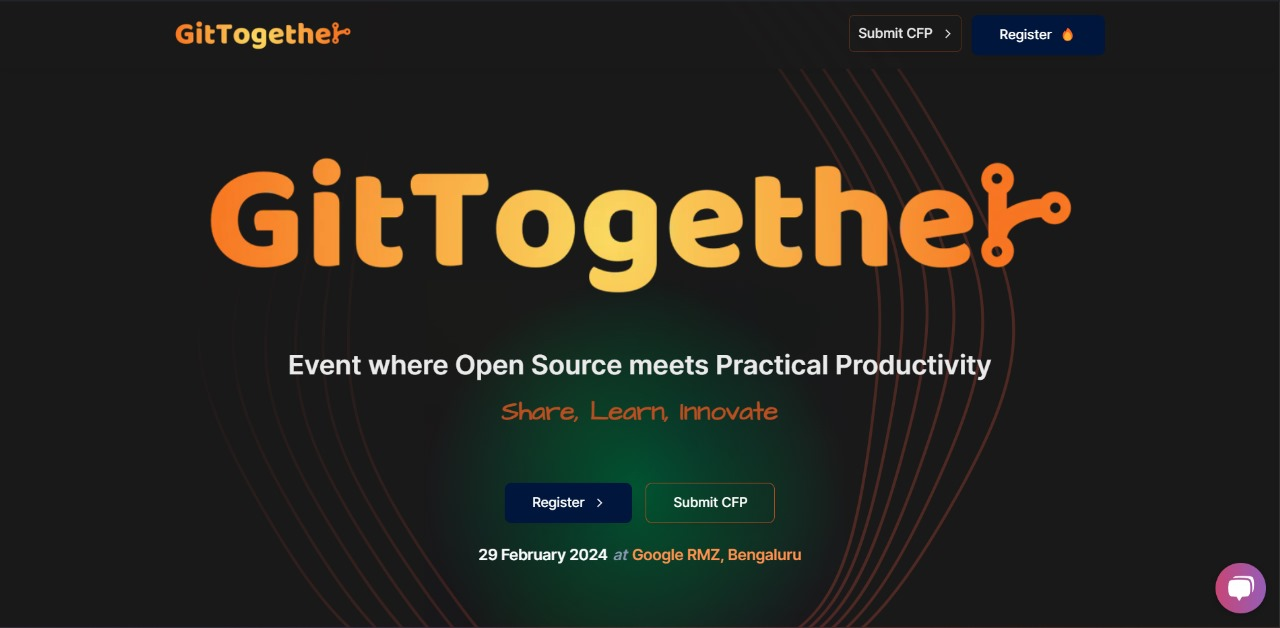
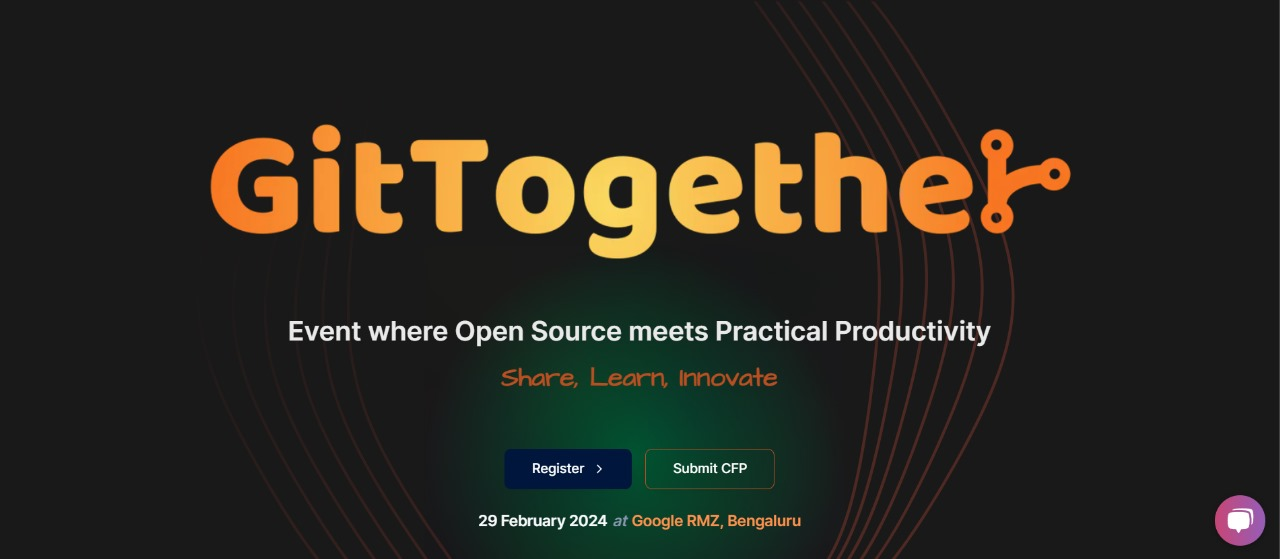
fix: implemented suggested changes

diff --git a/src/components/GitTogether.js b/src/components/GitTogether.js
@@ -11,17 +11,17 @@ export const GitTogether = () => {
       <img
         className="mt-8 "
         src="/docs/img/GitTogether.jpg"
-        alt={"hacktoberfest-2023"}
+        alt={"GitTogether Image"}
       />
       <div className="grid grid-cols-1 gap-20 mt-10 md:grid-cols-2">
         <a
-          className=" scale flex flex-col items-center justify-center space-y-3 rounded-lg bg-[color:orange] p-4 text-center shadow-lg"
+          className=" scale flex flex-col items-center justify-center space-y-3 rounded-lg border-[color:orange] border-2 p-4 text-center shadow-lg"
           href="https://docs.google.com/forms/d/e/1FAIpQLSdXYwF3j6AjVrGQn2RWKXqI5awbdmWK7mW2gQYCNAfpqaGZhA/viewform"
         >
           <p className="text-lg font-semibold">Register</p>
         </a>
         <a
-          className=" scale flex flex-col items-center justify-center space-y-3 rounded-lg bg-[color:orange] p-4 text-center shadow-lg"
+          className=" scale flex flex-col items-center justify-center space-y-3 rounded-lg border-[color:orange] border-2 p-4 text-center shadow-lg"
           href="https://docs.google.com/forms/d/e/1FAIpQLSclnnqTRA4x_YhG67eLNOK3LO4-ttqobbMZ5gbUclGNQDvmCg/viewform"
         >
           <p className="text-lg font-semibold">Submit CFP</p>
